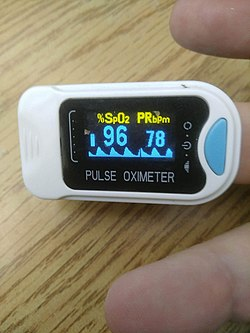
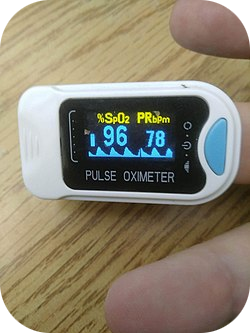
add some images and rounde image corners when relevant

diff --git a/content/introduction.tex b/content/introduction.tex
@@ -44,7 +44,7 @@
         EMS
         \begin{figure}
             \centering
-            \includegraphics[width=\columnwidth]{introduction/ems.jpg}
+            \includegraphics[width=\columnwidth]{introduction/ems.png}
         \end{figure}
     \end{columns}
 \end{frame}
@@ -53,12 +53,12 @@
     \begin{columns}
         \column{0.5\columnwidth}
         \begin{itemize}
-            \item IMPACK CPR
+            \item IMPACK CPR \includegraphics[height=2\fontcharht\font`\B]{introduction/impack.png}
             \item Chest Compression Device
             \item Feedback loop with vital signs
         \end{itemize}
         \begin{figure}
-            \includegraphics[width=\columnwidth]{introduction/massseur.jpeg}
+            \includegraphics[width=\columnwidth]{introduction/masseur.png}
         \end{figure}
 
         \column{0.5\columnwidth}
@@ -76,7 +76,7 @@
         \centering
         Cuff-based
         \begin{figure}
-            \includegraphics[width=\columnwidth]{introduction/cuff.jpg}
+            \includegraphics[width=\columnwidth]{introduction/cuff.png}
         \end{figure}
         % \begin{itemize}
         %     \item + non-invasive
@@ -87,7 +87,7 @@
         \centering
         Catheterization
         \begin{figure}
-            \includegraphics[width=\columnwidth]{introduction/catheter.jpeg}
+            \includegraphics[width=\columnwidth]{introduction/catheter.png}
         \end{figure}
         % \begin{itemize}
         %     \item - invasive
@@ -115,7 +115,7 @@
             \hline
             cuff-based     & \cmark       & \xmark     \\
             catheter       & \xmark       & \cmark     \\
-            desired system & \cmark       & \cmark     \\
+            desired solution & \cmark       & \cmark     \\
             \hline
         \end{tabular}
     \end{table}

diff --git a/content/contributions/survey.tex b/content/contributions/survey.tex
@@ -37,28 +37,35 @@
 
 \begin{frame}{Contribution 1: Survey}{Methodology}
     \begin{itemize}
-        \item Dataset
-        \item Preprocessing
-        \item Model architecture
-        \item Performance
+        \item Annotate articles
+              \begin{itemize}
+                  \item Dataset
+                  \item Preprocessing
+                  \item Model architecture
+                  \item Performance
+                  \item etc.
+              \end{itemize}
+        \item Extract statistics
     \end{itemize}
     \includegraphics[width=\textwidth]{survey/bigtable.png}
     \href{https://docs.google.com/spreadsheets/u/1/d/e/2PACX-1vR-3MoAcaD-N30ZM15ozSlxh8RHTUBv2KETb9f2g852htlH-5PNt_S8khVnUFLWeEo2H91ZW9hCEi8o/pubhtml}{published online for viewing}
 \end{frame}
 
 \begin{frame}{Contribution 1: Survey}{Results}
-    \centering
-    \includesvg[scale=0.6]{survey/Taxonomy.drawio.svg}
+    Taxonomy of approaches
+    \begin{figure}
+        \includesvg[scale=0.6]{survey/Taxonomy.drawio.svg}
+    \end{figure}
 \end{frame}
 
 \begin{frame}{Contribution 1: Survey}{Results}
     Methods
     \begin{figure}
-        \includesvg[width=0.3\columnwidth]{survey/layers.svg}
-        \hfill
         \includesvg[width=0.3\columnwidth]{survey/input.svg}
         \hfill
         \includesvg[width=0.3\columnwidth]{survey/algorithm.svg}
+        \hfill
+        \includesvg[width=0.3\columnwidth]{survey/layers.svg}
     \end{figure}
     \begin{itemize}
         \item PPG

diff --git a/content/literaturereview.tex b/content/literaturereview.tex
@@ -48,12 +48,12 @@
     \begin{table}
         \begin{tabular}{r c c c}
             \hline
-                           & non-invasive & continuous & calibration-free \\
+                             & non-invasive & continuous & calibration-free \\
             \hline
-            cuff-based     & \cmark       & \xmark     & \cmark           \\
-            catheter       & \xmark       & \cmark     & \cmark           \\
-            ML w/ pers.    & \cmark       & \cmark     & \xmark           \\
-            desired system & \cmark       & \cmark     & \cmark           \\
+            cuff-based       & \cmark       & \xmark     & \cmark           \\
+            catheter         & \xmark       & \cmark     & \cmark           \\
+            ML w/ pers.      & \cmark       & \cmark     & \xmark           \\
+            desired solution & \cmark       & \cmark     & \cmark           \\
             \hline
         \end{tabular}
     \end{table}

diff --git a/content/contributions/lcanalysis.tex b/content/contributions/lcanalysis.tex
@@ -16,11 +16,11 @@
 
 \begin{frame}{Contribution 4: Learning Curve Analysis}{Results}
     \begin{figure}[htbp]
-        \includesvg[width=0.43\columnwidth]{lcanalysis/lc analysis SBP MAE.svg}
-        \includesvg[width=0.43\columnwidth]{lcanalysis/lc analysis SBP SD.svg}
+        \includesvg[width=0.4\columnwidth]{lcanalysis/lc analysis SBP MAE.svg}
+        \includesvg[width=0.4\columnwidth]{lcanalysis/lc analysis SBP SD.svg}
 
-        \includesvg[width=0.43\columnwidth]{lcanalysis/lc analysis DBP MAE.svg}
-        \includesvg[width=0.43\columnwidth]{lcanalysis/lc analysis DBP SD.svg}
+        \includesvg[width=0.4\columnwidth]{lcanalysis/lc analysis DBP MAE.svg}
+        \includesvg[width=0.4\columnwidth]{lcanalysis/lc analysis DBP SD.svg}
     \end{figure}
     Improvement for SBP MAE only
 \end{frame}

diff --git a/content/contributions/models.tex b/content/contributions/models.tex
@@ -260,7 +260,7 @@
     \end{table}
     \begin{itemize}
         \item Train-test gap much larger for patient-wise
-        \item Sign of Overfitting
+        \item Sign of overfitting
     \end{itemize}
 \end{frame}
 
@@ -307,7 +307,7 @@
     \begin{itemize}
         \item \sout{Increase complexity}
         \item \sout{Increase regularization}
-        \item Increase Data
+        \item Increase data
     \end{itemize}
 \end{frame}
 
